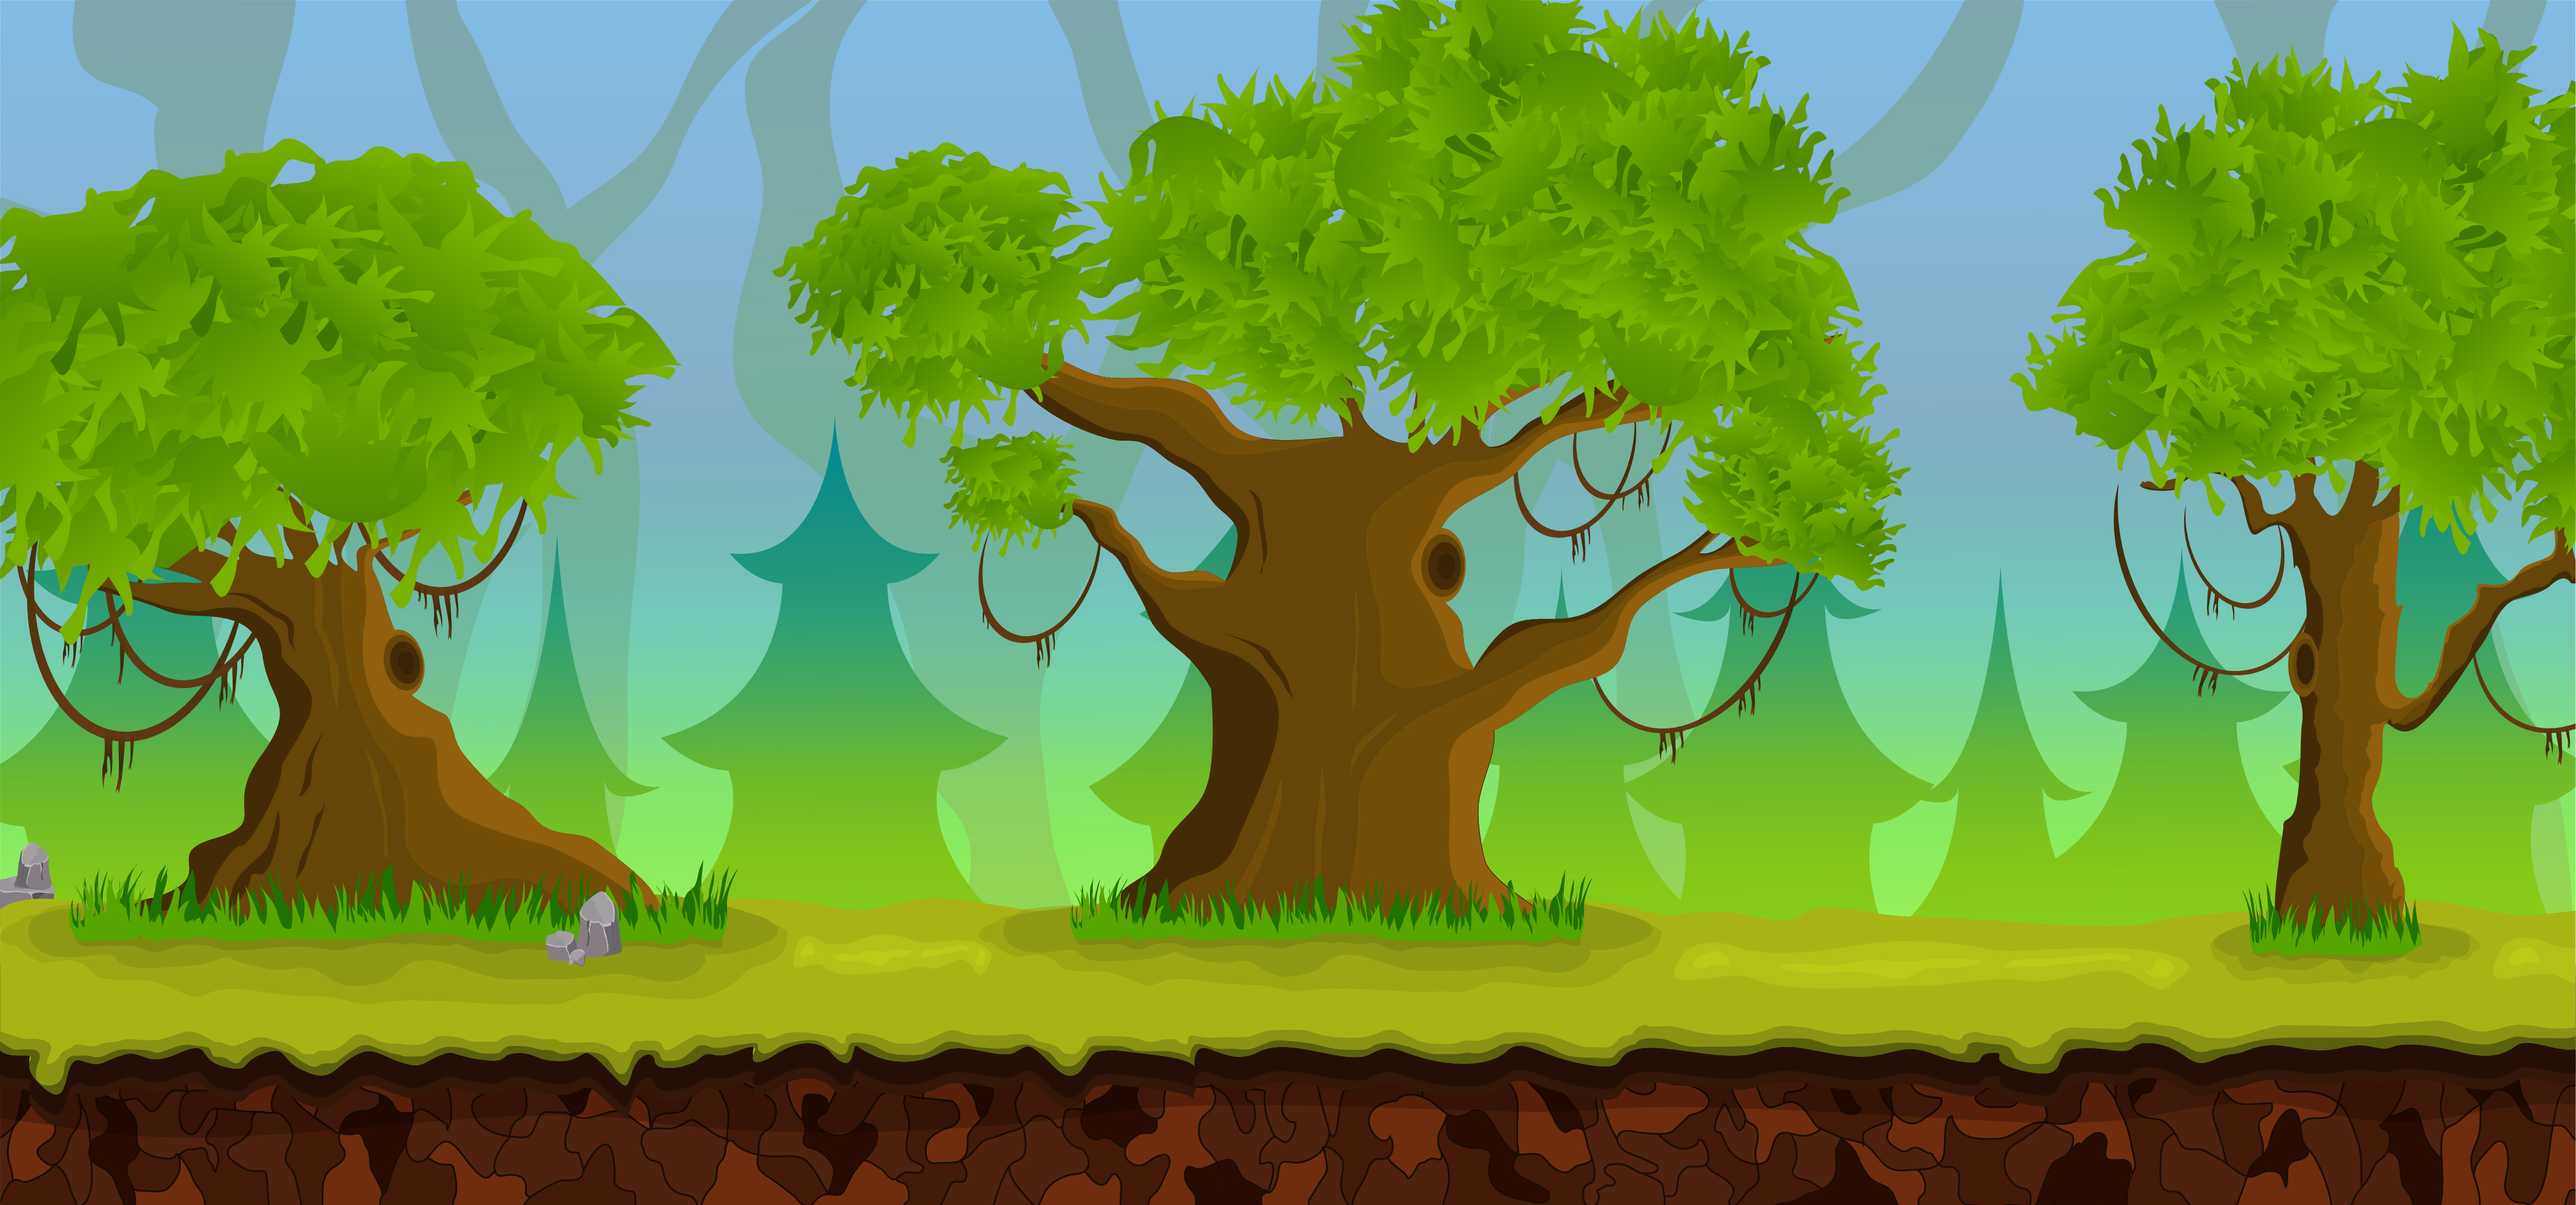
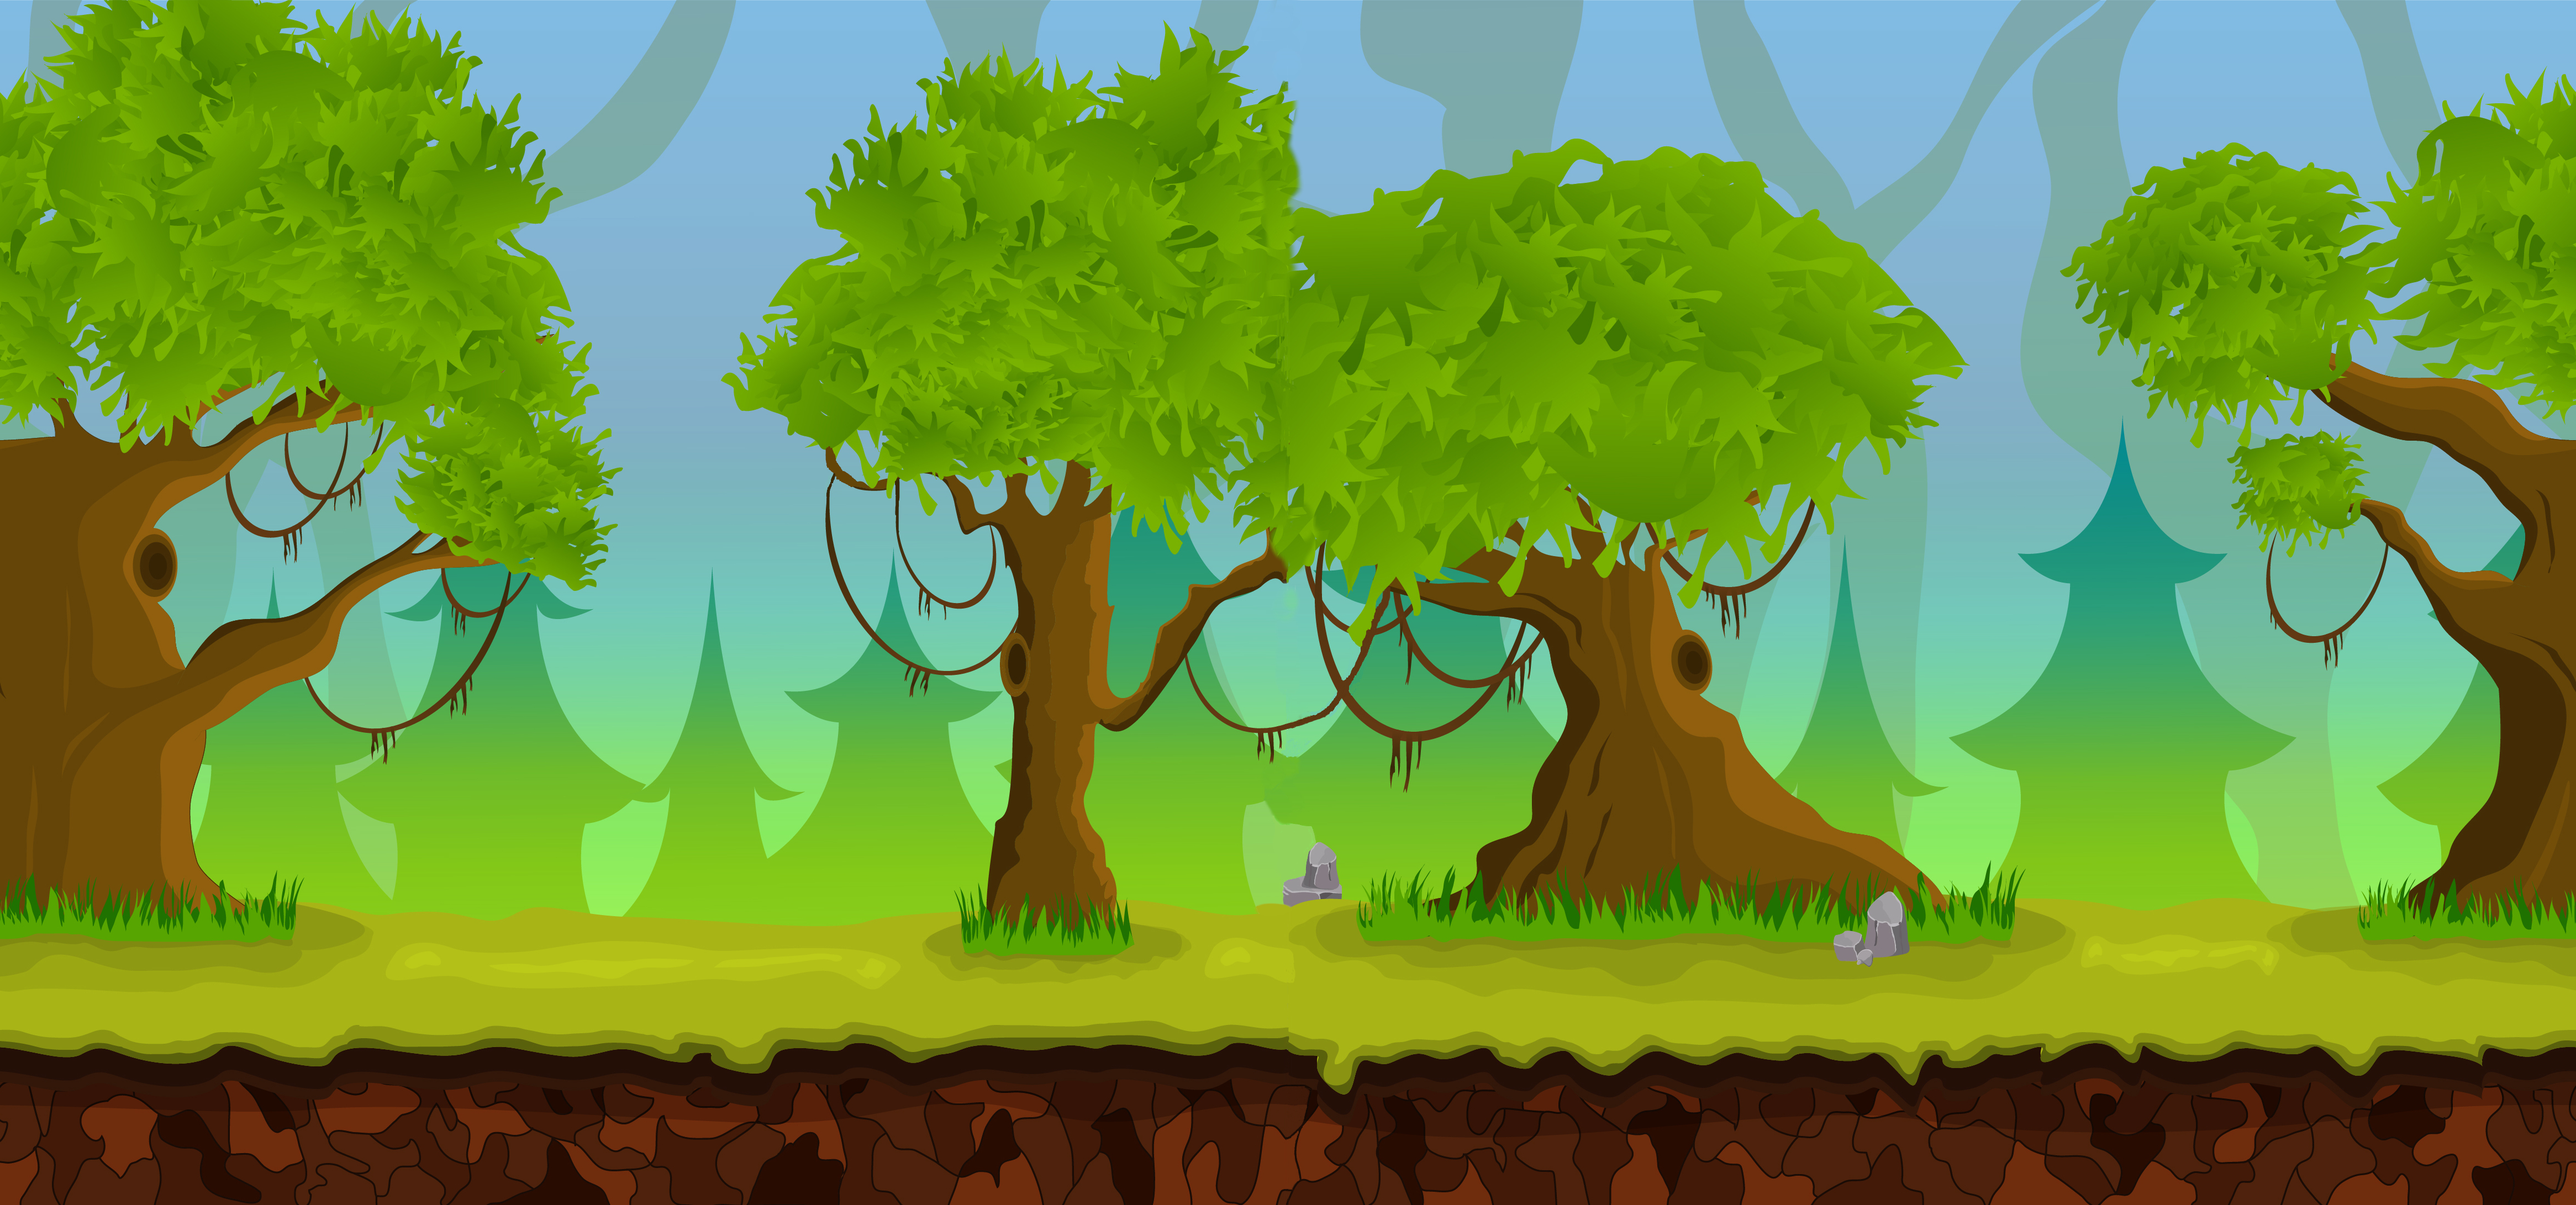
Lvl1 fondo repetible

diff --git a/src/scenes/lvl1.py b/src/scenes/lvl1.py
@@ -10,12 +10,17 @@ class Level1(Scene):
         self.clock = pygame.time.Clock()
         self.background = pygame.image.load(IMAGES_LVL1["level1_bg"]).convert()
         self.background = pygame.transform.scale(self.background, (SCREEN_WIDTH, SCREEN_HEIGHT))
+
+        self.bg_x = 0  # posición inicial del fondo
+        self.scroll_speed = 4
+
         self.mouse_visible = False
         self.init_audio()
+        self.init = SCREEN_WIDTH/2 - 140
 
         # Grupo de sprites
         self.all_sprites = pygame.sprite.Group()
-        self.player = Player(-50, 0, LVL1_GROUND_Y)
+        self.player = Player(self.init, 0, LVL1_GROUND_Y)
         self.all_sprites.add(self.player)
 
 
@@ -27,10 +32,26 @@ class Level1(Scene):
                 sys.exit()
 
     def update(self):
+        keys = pygame.key.get_pressed()
+
+        # Scroll infinito
+        if keys[pygame.K_d] or keys[pygame.K_RIGHT]:
+            self.bg_x -= self.scroll_speed
+        if keys[pygame.K_a] or keys[pygame.K_LEFT]:
+            self.bg_x += self.scroll_speed
+
+        # Reiniciar cuando se salga del ancho
+        if self.bg_x <= -SCREEN_WIDTH:
+            self.bg_x = 0
+        if self.bg_x >= SCREEN_WIDTH:
+            self.bg_x = 0
+
         self.all_sprites.update()
 
     def draw(self):
-        self.screen.blit(self.background, (0, 0))
+        self.screen.blit(self.background, (self.bg_x, 0))
+        self.screen.blit(self.background, (self.bg_x + SCREEN_WIDTH, 0))
+        self.screen.blit(self.background, (self.bg_x - SCREEN_WIDTH, 0))
         self.all_sprites.draw(self.screen)   
         self.draw_cursor()
 

diff --git a/src/characters/player.py b/src/characters/player.py
@@ -15,10 +15,10 @@ class Player(Character):
         keys = pygame.key.get_pressed()
         dx = 0
 
-        if keys[pygame.K_a] or keys[pygame.K_LEFT]:
-            dx = -1
-        if keys[pygame.K_d] or keys[pygame.K_RIGHT]:
-            dx = 1
+        # if keys[pygame.K_a] or keys[pygame.K_LEFT]:
+        #     dx = -1
+        # if keys[pygame.K_d] or keys[pygame.K_RIGHT]:
+        #     dx = 1
         
         if (keys[pygame.K_w] or keys[pygame.K_UP]) and self.on_ground:
             self.vel_y = self.jump_strength
